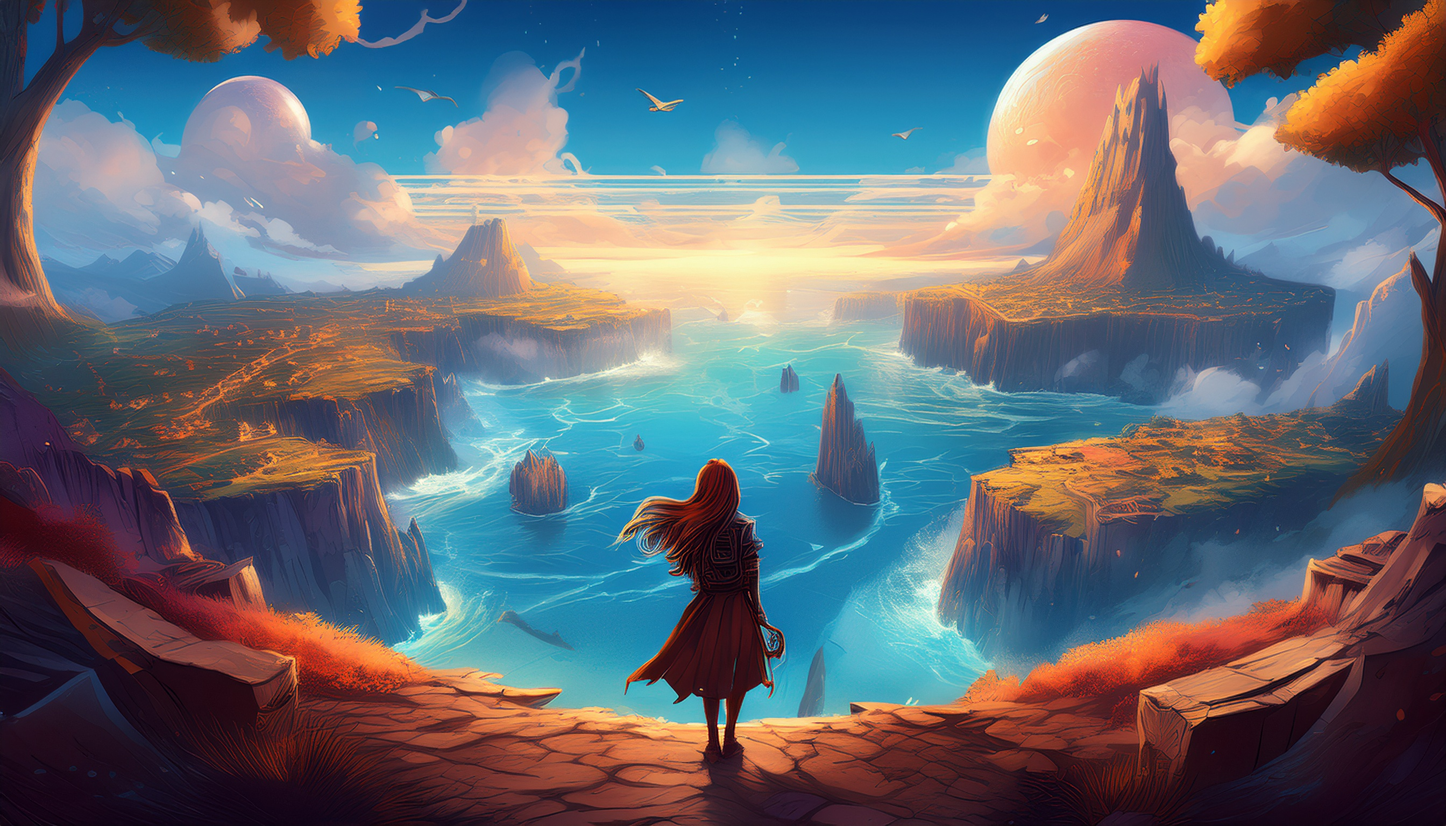
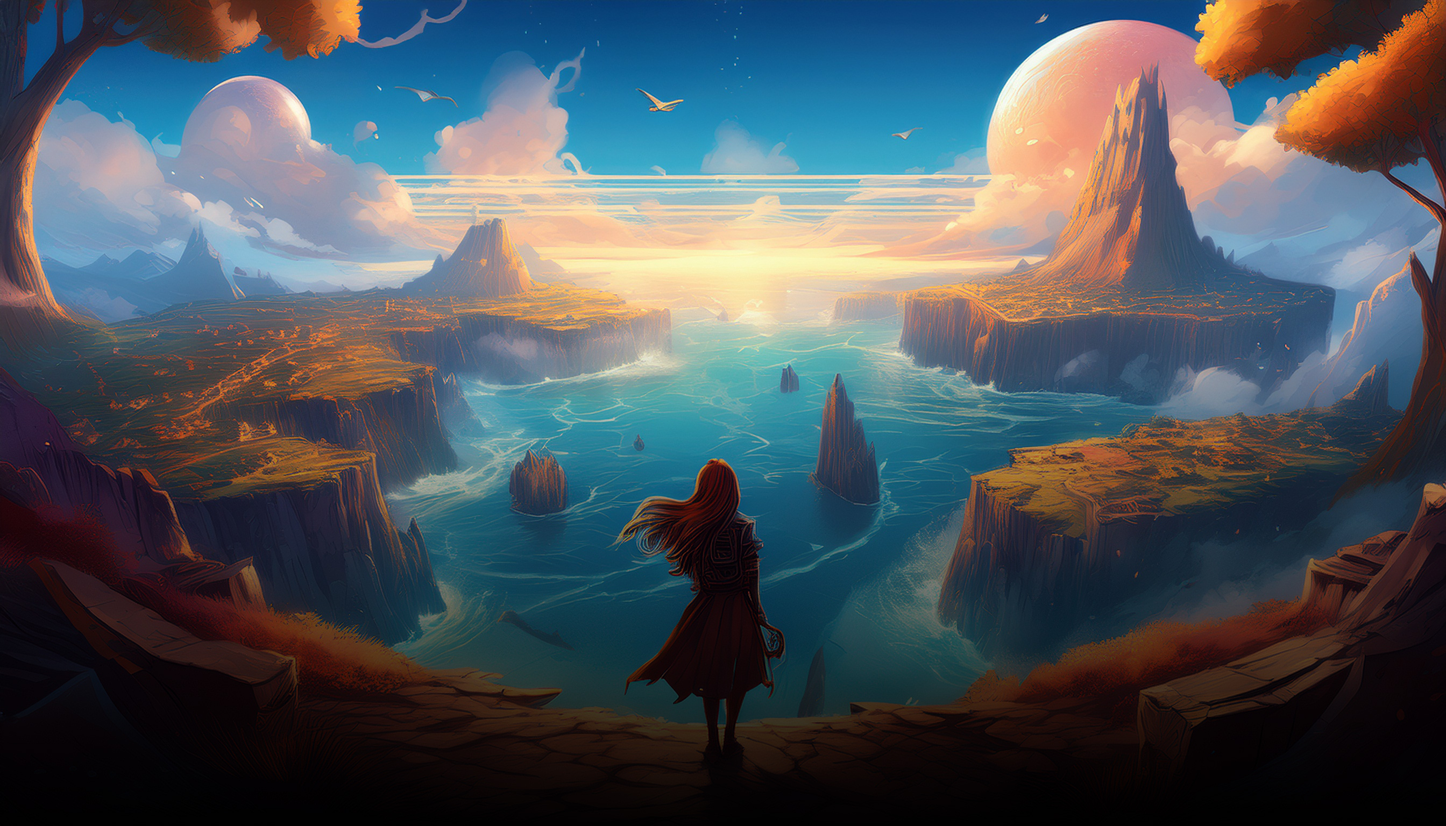
atualização
alteração de img de fundo

diff --git a/assets/css/style.css b/assets/css/style.css
@@ -272,9 +272,9 @@ i {
     width: 100%;
     min-height: 100vh;
     background-image: linear-gradient(rgba(0, 0, 0, .7), rgba(0, 0, 0, 3.3)), url(../images/1ChronoTeia/img-fundo.png);
-    background-position: 50%;
+    background-position: top;
     background-repeat: no-repeat;
-    background-size: cover;
+    background-size: contain;
     display: flex;
     align-items: center;
     color: var(--color-light);
@@ -284,9 +284,9 @@ i {
     width: 100%;
     min-height: 100vh;
     background-image: linear-gradient(rgba(0, 0, 0, .7), rgba(0, 0, 0, 3.3)), url(../images/2Horizontes-Perdidos/img-fundo.jpg);
-    background-position: 50%;
+    background-position: top;
     background-repeat: no-repeat;
-    background-size: cover;
+    background-size: contain;
     display: flex;
     align-items: center;
     color: var(--color-light);
@@ -296,9 +296,9 @@ i {
     width: 100%;
     min-height: 100vh;
     background-image: linear-gradient(rgba(0, 0, 0, .7), rgba(0, 0, 0, 3.3)), url(../images/3Ecos-do-Abismo/ecoimg\ \(2\).jpg);
-    background-position: 50%;
+    background-position: top;
     background-repeat: no-repeat;
-    background-size: cover;
+    background-size: contain;
     display: flex;
     align-items: center;
     color: var(--color-light);
@@ -308,9 +308,9 @@ i {
     width: 100%;
     min-height: 100vh;
     background-image: linear-gradient(rgba(0, 0, 0, .7), rgba(0, 0, 0, 3.3)), url(../images/4Lendas-de-Estrelarium/img-fundo.jpg);
-    background-position: 50%;
+    background-position: top;
     background-repeat: no-repeat;
-    background-size: cover;
+    background-size: contain;
     display: flex;
     align-items: center;
     color: var(--color-light);
@@ -320,9 +320,9 @@ i {
     width: 100%;
     min-height: 100vh;
     background-image: linear-gradient(rgba(0, 0, 0, .7), rgba(0, 0, 0, 3.3)), url(../images/5Sonhos-de-neon/fundo-img.jpg);
-    background-position: 50%;
+    background-position: top;
     background-repeat: no-repeat;
-    background-size: cover;
+    background-size: contain;
     display: flex;
     align-items: center;
     color: var(--color-light);
@@ -332,9 +332,9 @@ i {
     width: 100%;
     min-height: 100vh;
     background-image: linear-gradient(rgba(0, 0, 0, .7), rgba(0, 0, 0, 3.3)), url(../images/6Reino-sob-as-Cinzas/fundo-img.jpg);
-    background-position: 50%;
+    background-position: top;
     background-repeat: no-repeat;
-    background-size: cover;
+    background-size: contain;
     display: flex;
     align-items: center;
     color: var(--color-light);
@@ -343,6 +343,9 @@ i {
 
 .game-page h2 {
     font-size: 6vmin;
+    color: var(--color-lightyellow);
+    
+    
 }
 
 .game-page p, h3, h4 {
@@ -381,7 +384,7 @@ i {
 
 .game-img img:hover {
     box-shadow: 0px 0px 30px #ffa149;
-    transition: 0.7s;
+    transition: 0.3s;
 }
 
 
